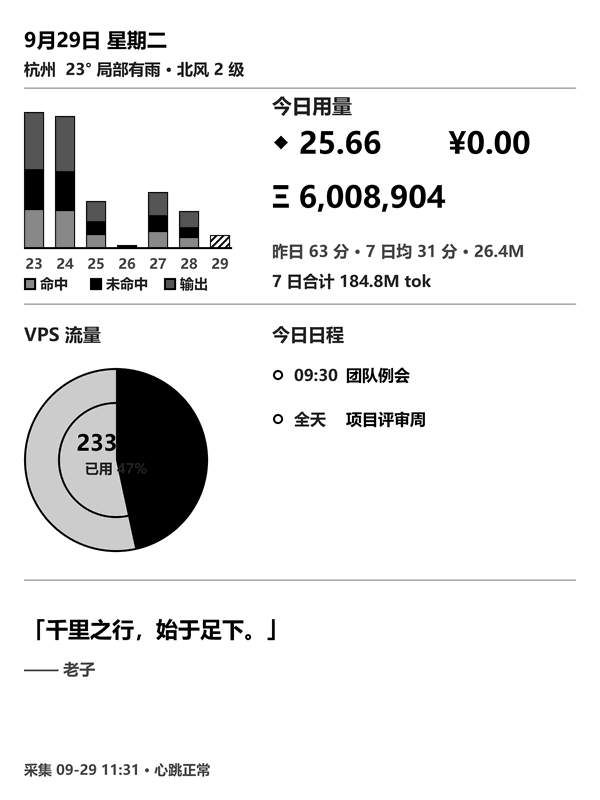
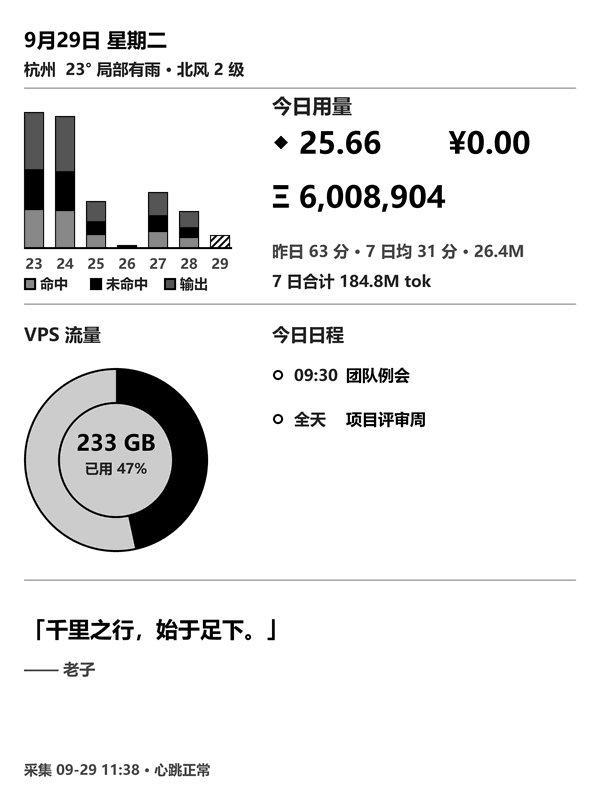
Fix VPS donut: draw ring arc (v13 style) instead of filled pie; center text readable

Changed region(s): [[0.18, 0.5, 0.3, 0.6562], [0.21, 0.9375, 0.24, 0.9688]]

diff --git a/renderer/board_renderer.py b/renderer/board_renderer.py
@@ -166,6 +166,11 @@ class SDraw(object):
         self._d.pieslice(self._xy(xy), start=start, end=end, fill=fill,
                          outline=outline, width=self._w(width), **kw)
 
+    def arc(self, xy, start, end, fill=None, width=1, **kw):
+        # ★ 角度不缩放；width 向圆心方向扩展（环形描边用）
+        self._d.arc(self._xy(xy), start=start, end=end, fill=fill,
+                    width=self._w(width), **kw)
+
     def textbbox(self, xy, text, font=None, **kw):
         if self.S == 1:
             return self._d.textbbox(xy, text, font=font, **kw)
@@ -546,7 +551,9 @@ def render(data, out, now=None):
     if used is not None and pct is not None and state != "suspended":
         frac = min(max(float(pct) / 100.0, 0.0), 1.0)
         if frac > 0:
-            d.pieslice([px0, py0, px1, py1], start=-90, end=-90 + 360 * frac, fill=INK)
+            # 环形描边（v13 口径）：只画 PIE_RING 宽的弧段，中心留白给文字
+            d.arc([px0, py0, px1, py1], start=-90, end=-90 + 360 * frac,
+                  fill=INK, width=PIE_RING)
         text((cxp, PIE_CY - 18), fmt_bytes(used), f22, INK, anchor="mm")
         text((cxp, PIE_CY + 8), "已用 %.0f%%" % float(pct), f14, DIM, anchor="mm")
     else:
